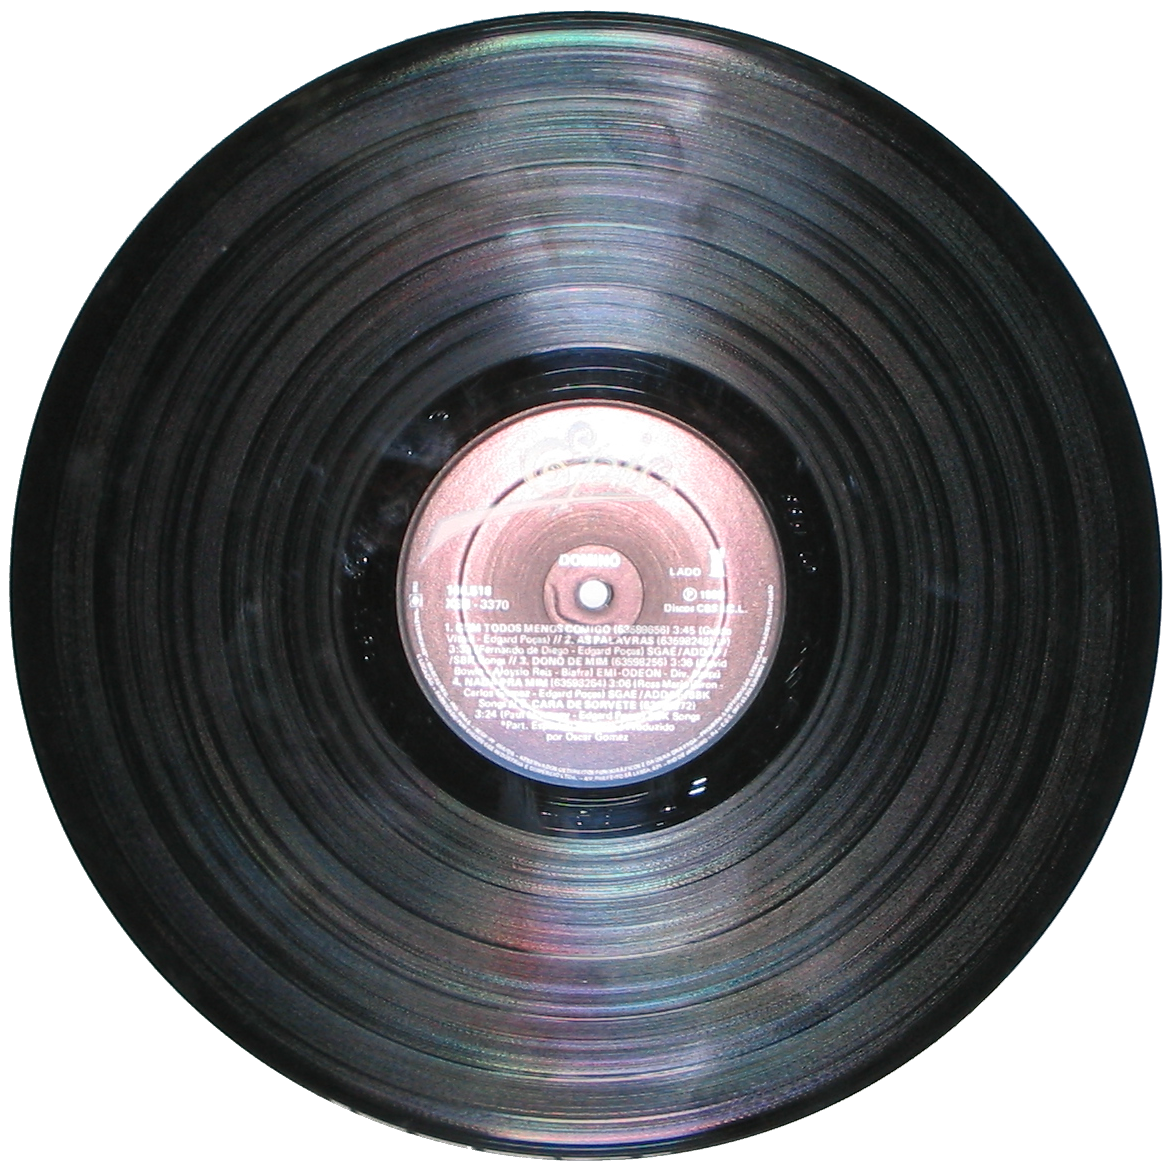
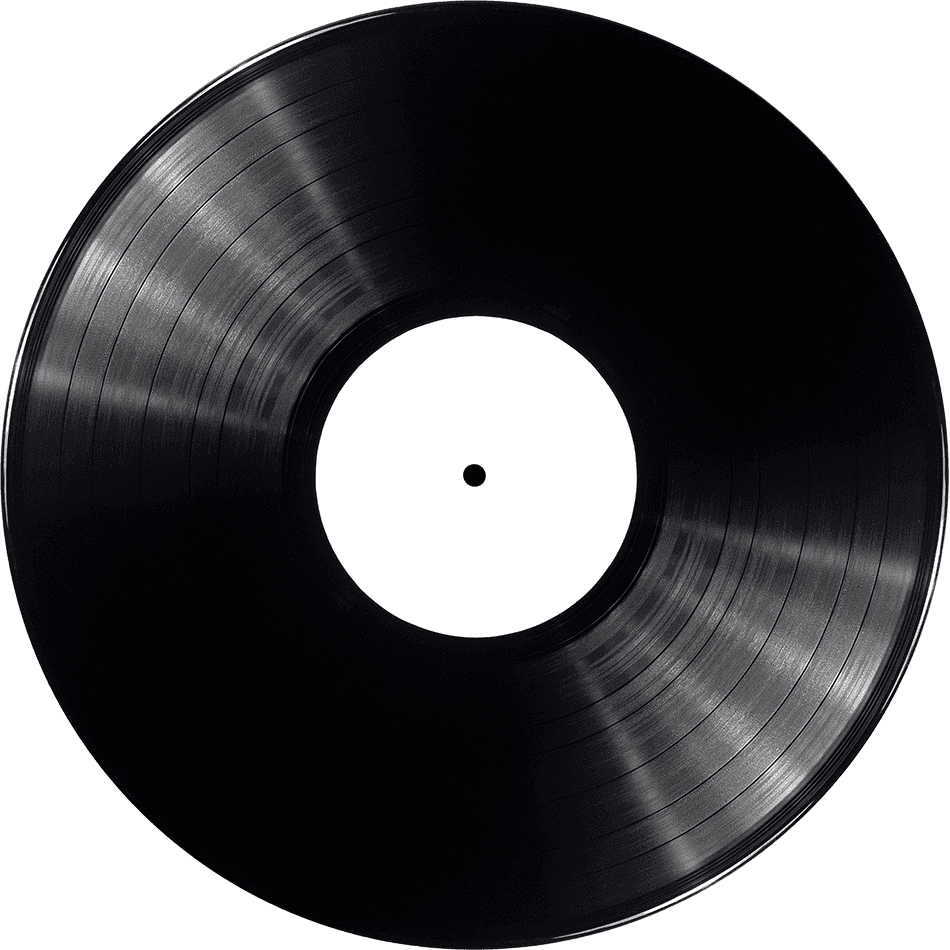
Fixed Vinyl disc image and corresponding css changes. The disc was playing on stop as well, fixed that bug

diff --git a/index.html b/index.html
@@ -15,7 +15,7 @@
 		<div class="container-fluid">
 		   <!--List of Jukebox Songs HTML -->
 			<div class="row box">
-			<img src="images/logojukebox.png" style="width:350px; height: 150px;">
+			<!--<img src="images/logojukebox.png" style="width:350px; height: 150px;"> -->
 			<h4>Albumlist</h4>
 				<div class="box1">
 					<button class="songs" id="beatles" data-title="We Can Work It Out" data-artist="Beatles" data-src="wecanworkitout.mp3" data-type="mpeg" data-albumcover="beatles1.jpg" data-funfact="The Beatles officially broke up at Disney World.">

diff --git a/style.css b/style.css
@@ -1,5 +1,6 @@
 body {
-	/*background-image: url("images/jukeboxbackground1.png")*/
+	background-image: url("images/jukeboxbackground.png");
+	background-image: no-repeat;
 }
 
 h4 { 
@@ -10,14 +11,14 @@ h4 {
 
 label {
 	color: indianred;
-	font-size: small;
+	font-size: large;
 	margin: 1px 1px;
 }
 
 
 h5 {
 	color: lightgrey;
-	font-size: small;
+	font-size: large;
 	margin: 1px 1px;
 }
 
@@ -88,6 +89,8 @@ h5 {
     animation-duration: .5s;
     animation-iteration-count: infinite;
 }
+
+
 
 
 @keyframes dischighlight {

diff --git a/main.js b/main.js
@@ -63,12 +63,14 @@ $(document).ready(function(){
      } else {
       $('#myAudio')[0].pause();
       ispaused = 1;
+      document.getElementById('vinyldisc').className = "vinyldiscstatic";
      }
   });
 
   //stop Control
   $("#stopbutton").click(function(){
-    $('#myAudio').attr('src',"");   
+    $('#myAudio').attr('src',"");  
+    document.getElementById('vinyldisc').className = "vinyldiscstatic"; 
   });
 
   $("#nextbutton").click(function(){
